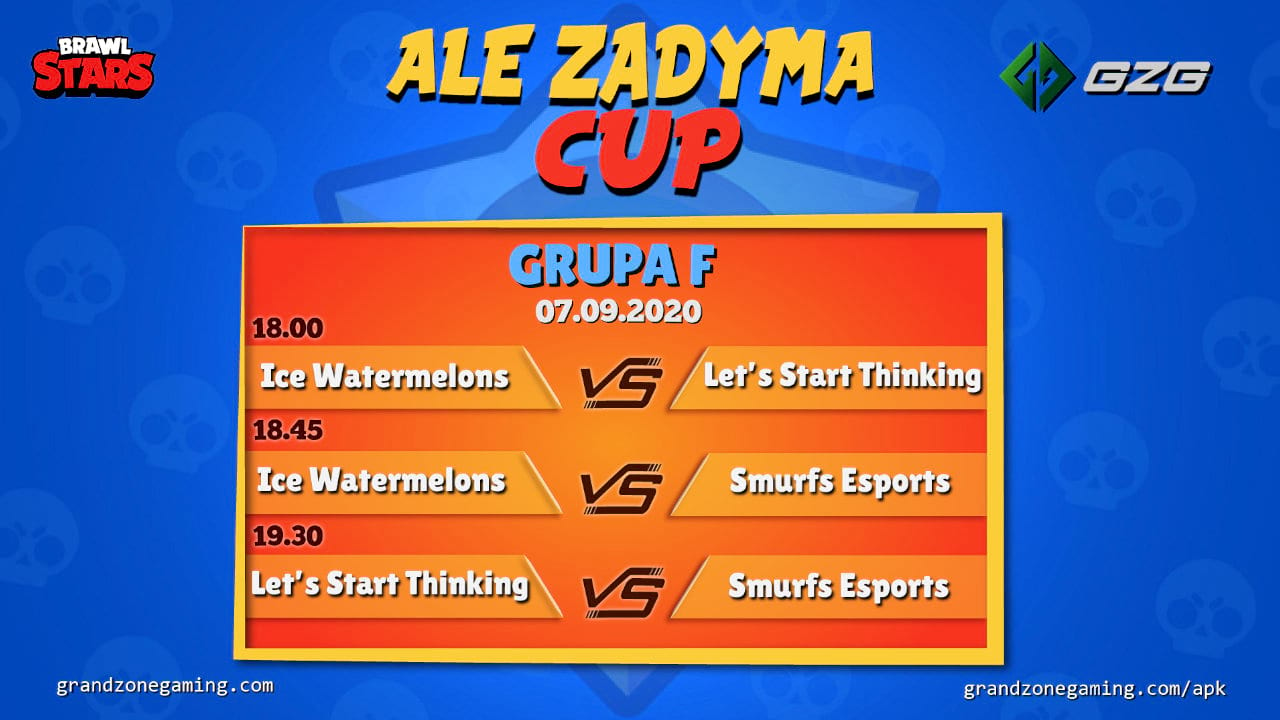
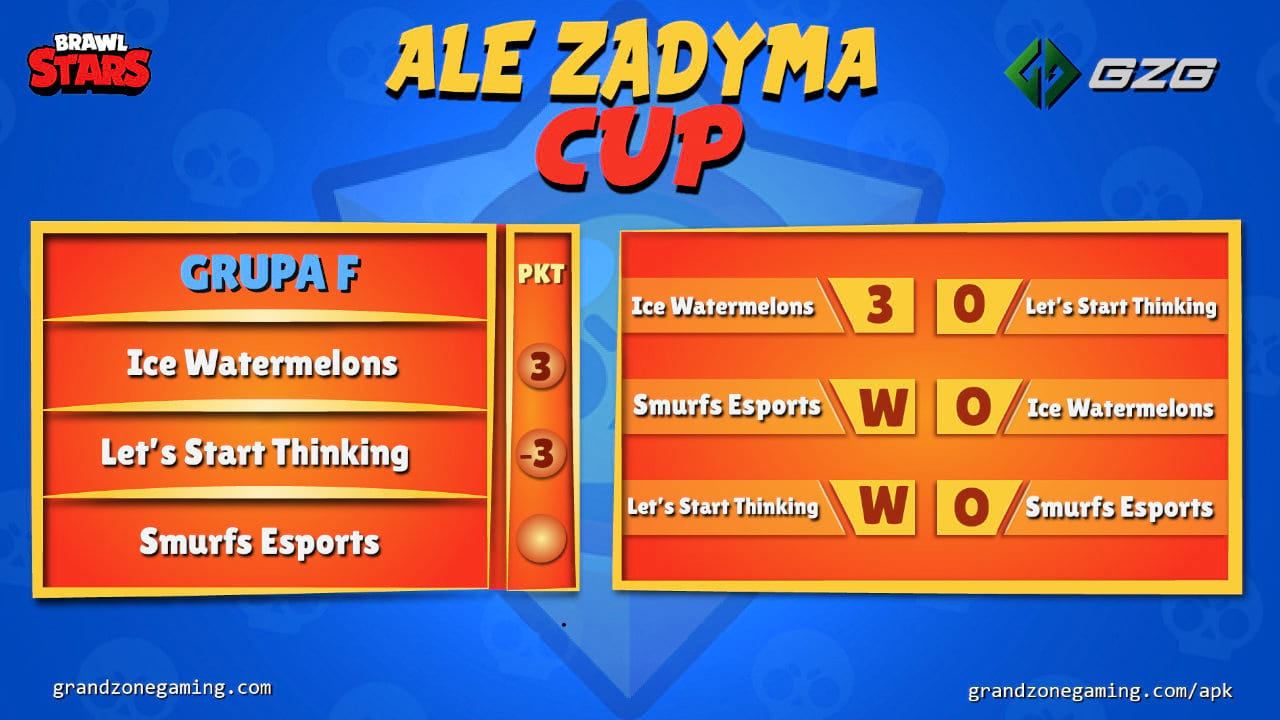
wyniki bs

diff --git a/pl/terminarz-bs/index.html b/pl/terminarz-bs/index.html
@@ -450,12 +450,12 @@
 
           <div class="flex flex-row">
             <div class="w-5/6 bg-gray-800 rounded-lg items-center mb-2 p-2 ml-2">
-              LA Poland
+              GrochuToNosi
             </div>
             <div
               class="w-1/6 bg-gray-800 rounded-lg items-center text-center justify-center flex mb-2 mx-2 p-1"
             >
-              0
+              2
             </div>
           </div>
 
@@ -468,7 +468,7 @@
             <div
               class="w-1/6 bg-gray-800 rounded-lg items-center text-center justify-center flex m-2 mt-0 p-1"
             >
-              0
+              -2
             </div>
           </div>
 
@@ -476,7 +476,7 @@
             <div
               class="w-5/6 ml-2 bg-gray-800 rounded-lg items-center my-2 mt-0 p-2"
             >
-              GrochuToNosi
+              LA Poland
             </div>
             <div
               class="w-1/6 bg-gray-800 rounded-lg items-center text-center justify-center flex m-2 mt-0 p-1"
@@ -503,25 +503,12 @@
 
           <div class="flex flex-row">
             <div class="w-5/6 bg-gray-800 rounded-lg items-center mb-2 p-2 ml-2">
-              Smurfs Esports
+              Ice Watermelons
             </div>
             <div
               class="w-1/6 bg-gray-800 rounded-lg items-center text-center justify-center flex mb-2 mx-2 p-1"
             >
-              0
-            </div>
-          </div>
-
-          <div class="flex flex-row">
-            <div
-              class="w-5/6 ml-2 bg-gray-800 rounded-lg items-center my-2 mt-0 p-2"
-            >
-              Ice Watermelons
-            </div>
-            <div
-              class="w-1/6 bg-gray-800 rounded-lg items-center text-center justify-center flex m-2 mt-0 p-1"
-            >
-              0
+              3
             </div>
           </div>
 
@@ -530,6 +517,19 @@
               class="w-5/6 ml-2 bg-gray-800 rounded-lg items-center my-2 mt-0 p-2"
             >
               Let's Start Thinking
+            </div>
+            <div
+              class="w-1/6 bg-gray-800 rounded-lg items-center text-center justify-center flex m-2 mt-0 p-1"
+            >
+              -3
+            </div>
+          </div>
+
+          <div class="flex flex-row">
+            <div
+              class="w-5/6 ml-2 bg-gray-800 rounded-lg items-center my-2 mt-0 p-2"
+            >
+              Smurfs Esports
             </div>
             <div
               class="w-1/6 bg-gray-800 rounded-lg items-center text-center justify-center flex m-2 mt-0 p-1"
@@ -563,20 +563,7 @@
             <div
               class="w-1/6 bg-gray-800 rounded-lg items-center text-center justify-center flex mb-2 mx-2 p-1"
             >
-              0
-            </div>
-          </div>
-
-          <div class="flex flex-row">
-            <div
-              class="w-5/6 ml-2 bg-gray-800 rounded-lg items-center my-2 mt-0 p-2"
-            >
-              WvS Phoenix
-            </div>
-            <div
-              class="w-1/6 bg-gray-800 rounded-lg items-center text-center justify-center flex m-2 mt-0 p-1"
-            >
-              0
+              3
             </div>
           </div>
 
@@ -585,6 +572,19 @@
               class="w-5/6 ml-2 bg-gray-800 rounded-lg items-center my-2 mt-0 p-2"
             >
               WAP eSports
+            </div>
+            <div
+              class="w-1/6 bg-gray-800 rounded-lg items-center text-center justify-center flex m-2 mt-0 p-1"
+            >
+              -3
+            </div>
+          </div>
+
+          <div class="flex flex-row">
+            <div
+              class="w-5/6 ml-2 bg-gray-800 rounded-lg items-center my-2 mt-0 p-2"
+            >
+              WvS Phoenix
             </div>
             <div
               class="w-1/6 bg-gray-800 rounded-lg items-center text-center justify-center flex m-2 mt-0 p-1"
